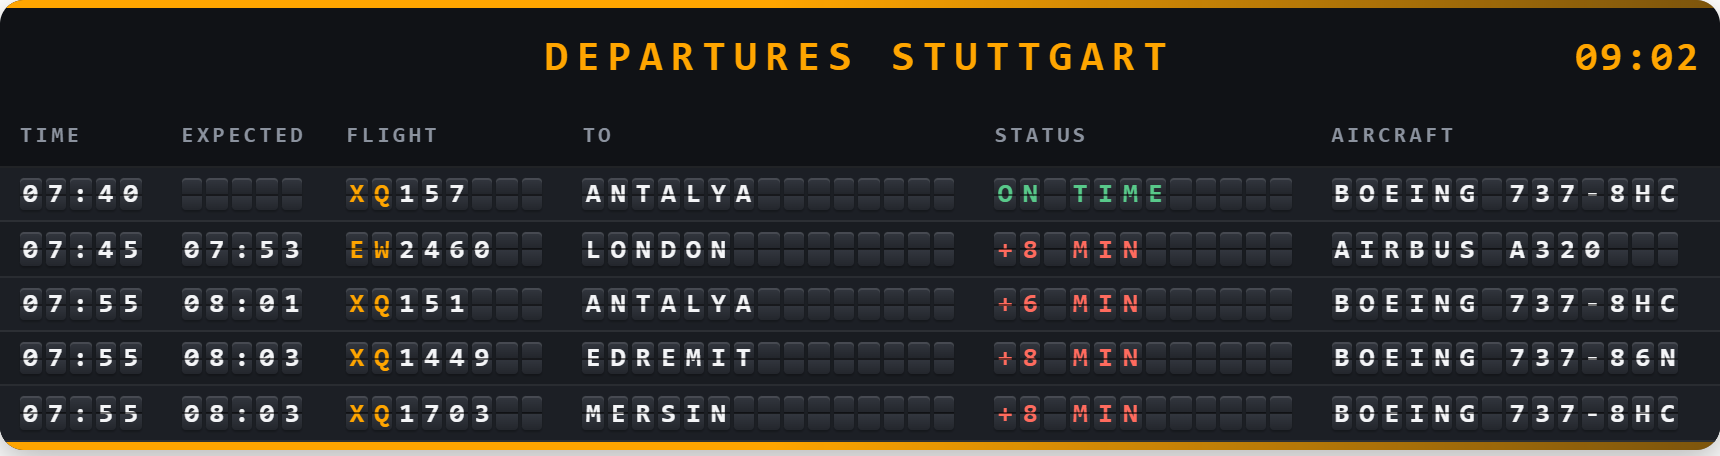
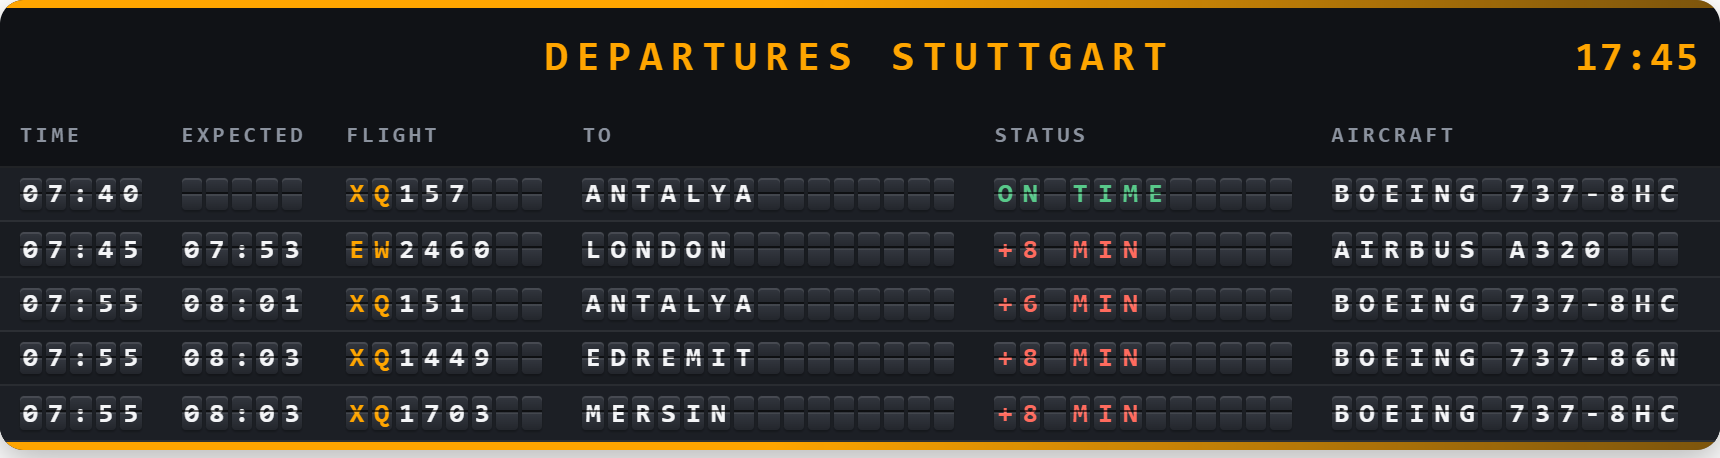
Bring README up to date and add a support section
Part of #1 (HACS Default Store readiness). Several checklist items there
turned out to already be done — repo description and topics are set, the
HACS validate workflow exists and passes, final (non-prerelease) releases
exist since 0.3.0, and the release-title typo the original audit found is
gone. This covers the documentation pass that was genuinely outstanding.

The feature list predated 0.6.0 and so omitted the accent colour, edge
bars, the second animation style and the card-picker preview. The badge
row pointed at custom-components/hacs, which is not where HACS lives any
more, and showed nothing about build health — CI and HACS-validation
status badges are the two a visitor evaluating a custom card actually
wants. Screenshots were regenerated from the current build so the light
theme shows the corrected fold line rather than the barely-visible one
from beta.1.

The support section states plainly that the card is written with Claude
Code and that sponsorship funds that licence, because that is the honest
description of how it gets built and of what a contribution changes. It
says what sponsorship affects (issues being worked through) without
implying the card itself becomes conditional — it stays free and MIT
either way, and non-monetary contributions are named as equally useful.
Repeated in info.md, since that is what HACS renders in-app rather than
the README.

diff --git a/README.md b/README.md
@@ -1,8 +1,11 @@
 # FlightRadar24 Split-Flap Card
 
-[![hacs_badge](https://img.shields.io/badge/HACS-Custom-orange.svg)](https://github.com/custom-components/hacs)
-[![GitHub Release](https://img.shields.io/github/release/GpsM2/flightradar24-splitflap-card.svg?style=flat-square)](https://github.com/GpsM2/flightradar24-splitflap-card/releases)
-[![License](https://img.shields.io/github/license/GpsM2/flightradar24-splitflap-card.svg?style=flat-square)](LICENSE)
+[![HACS: custom repository](https://img.shields.io/badge/HACS-Custom-orange?style=flat-square)](https://hacs.xyz/docs/faq/custom_repositories/)
+[![GitHub release](https://img.shields.io/github/v/release/GpsM2/flightradar24-splitflap-card?style=flat-square)](https://github.com/GpsM2/flightradar24-splitflap-card/releases)
+[![CI](https://img.shields.io/github/actions/workflow/status/GpsM2/flightradar24-splitflap-card/ci.yml?branch=main&style=flat-square&label=CI)](https://github.com/GpsM2/flightradar24-splitflap-card/actions/workflows/ci.yml)
+[![HACS validation](https://img.shields.io/github/actions/workflow/status/GpsM2/flightradar24-splitflap-card/validate.yml?branch=main&style=flat-square&label=HACS%20validation)](https://github.com/GpsM2/flightradar24-splitflap-card/actions/workflows/validate.yml)
+[![License: MIT](https://img.shields.io/github/license/GpsM2/flightradar24-splitflap-card?style=flat-square)](LICENSE)
+[![Support on Ko-fi](https://img.shields.io/badge/Ko--fi-support-ff5e5b?style=flat-square&logo=kofi&logoColor=white)](https://ko-fi.com/R8O124JOD1)
 
 A custom Lovelace card for Home Assistant that renders flight data from the
 [FlightRadar24 integration](https://github.com/AlexandrErohin/home-assistant-flightradar24)
@@ -24,14 +27,17 @@ as an animated split-flap airport board.
 ## Features
 
 - Authentic split-flap animation — each character flips on its own, and only
-  characters that actually changed are animated
+  characters that actually changed are animated. Optionally, flaps can roll
+  through the character sequence up to the target instead.
 - Works with the integration's airport sensors: arrivals and departures
 - Delay indicator: scheduled and expected time side by side, colour-coded
 - Light and dark mode, following the Home Assistant theme automatically
+- Customisable accent colour and edge bars (fading, solid, rainbow, or off)
 - Responsive grid: flaps shrink until the board fits the card
 - Bundled typeface — no fonts are loaded from third parties
 - Multilingual interface (English, German, Spanish, French)
-- Visual configuration editor — no YAML required
+- Visual configuration editor — no YAML required, with a live preview of the
+  board right in Home Assistant's card picker
 
 ## Requirements
 
@@ -70,9 +76,10 @@ as an animated split-flap airport board.
 The card is set up through the Home Assistant interface — no YAML needed.
 
 1. Edit the dashboard → **Add card**
-2. Search for "FlightRadar24 Split-Flap Card" and select it
-3. Pick the sensor in the editor — only arrivals and departures boards are
-   offered, other FlightRadar24 sensors are filtered out
+2. Search for "FlightRadar24 Split-Flap Card" — the picker shows a live
+   preview of the board, using one of your own sensors
+3. Select it, then pick the sensor in the editor — only arrivals and
+   departures boards are offered, other FlightRadar24 sensors are filtered out
 4. Adjust the remaining options and save
 
 From Home Assistant 2026.6 there is an even shorter route: when adding a card,
@@ -207,6 +214,23 @@ More detail in [INSTALLATION.md](INSTALLATION.md).
 Contributions are welcome — see [CONTRIBUTING.md](CONTRIBUTING.md). Please report
 bugs and feature requests as an
 [issue](https://github.com/GpsM2/flightradar24-splitflap-card/issues).
+
+## Supporting this project
+
+[![Support on Ko-fi](https://img.shields.io/badge/Ko--fi-support%20this%20project-ff5e5b?style=for-the-badge&logo=kofi&logoColor=white)](https://ko-fi.com/R8O124JOD1)
+
+Worth being upfront about how this card is built: nearly all of it is written
+with [Claude Code](https://claude.com/claude-code), working from my direction,
+testing and review. That is a paid subscription, and it is what makes the pace
+of development here possible at all.
+
+Sponsorship goes directly towards that licence. Concretely: without it I can't
+keep working through reported issues and feature requests — so if this card is
+useful to you and you'd like it to keep improving, a contribution genuinely
+decides what gets fixed next.
+
+Either way, the card stays free and MIT-licensed. Bug reports, translations and
+pull requests help just as much as money does.
 
 ## Credits
 

diff --git a/info.md b/info.md
@@ -35,3 +35,15 @@ animation style and the visible columns.
 
 For problems or questions, please open an
 [issue on GitHub](https://github.com/GpsM2/flightradar24-splitflap-card/issues).
+
+## Supporting this project
+
+[![Support on Ko-fi](https://img.shields.io/badge/Ko--fi-support%20this%20project-ff5e5b?style=for-the-badge&logo=kofi&logoColor=white)](https://ko-fi.com/R8O124JOD1)
+
+Nearly all of this card is written with
+[Claude Code](https://claude.com/claude-code), working from my direction,
+testing and review — a paid subscription, and what makes the pace of
+development here possible. Sponsorship goes directly towards that licence, and
+without it I can't keep working through reported issues.
+
+The card stays free and MIT-licensed either way.

diff --git a/CHANGELOG.md b/CHANGELOG.md
@@ -7,6 +7,15 @@ and this project adheres to [Semantic Versioning](https://semver.org/).
 
 ## [Unreleased]
 
+### Changed
+- README refreshed for the current state of the card: the 0.6.0 additions
+  (accent colour, edge bars, second animation style, card-picker preview) are
+  now listed, the badge row gained CI and HACS-validation status, and the
+  screenshots were regenerated so the light theme shows the corrected fold
+  line.
+- Added a support section (Ko-fi) to README and info.md, stating plainly that
+  the card is built with Claude Code and what sponsorship funds.
+
 ### Added
 - Live thumbnail in Home Assistant's "Add card" picker and "suggested
   cards" gallery, instead of plain description text. `getStubConfig()` now
